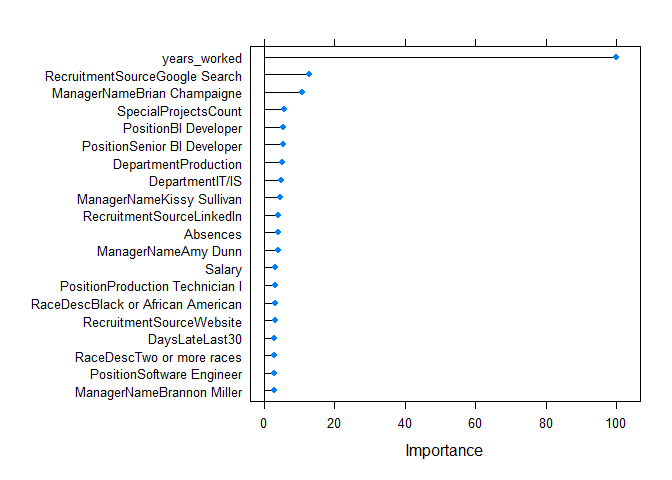
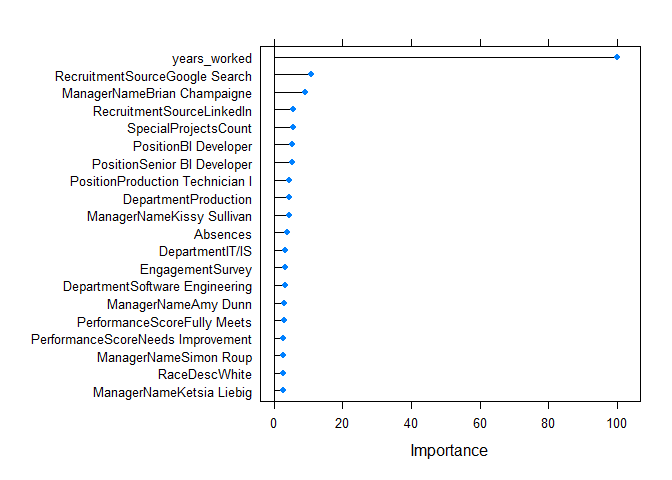
finalised

diff --git a/hr.md b/hr.md
@@ -1,7 +1,7 @@
 Human Resources Data Mining
 ================
 Kar Ng
-2022-05
+2022-07
 
 -   [1 SUMMARY](#1-summary)
 -   [2 R PACKAGES](#2-r-packages)
@@ -45,7 +45,7 @@ Kar Ng
             (MCA)](#833-multiple-correspondence-analysis-mca)
     -   [8.4 Are there areas of the company where pay is not
         equitable?](#84-are-there-areas-of-the-company-where-pay-is-not-equitable)
-        -   [8.4.1 Visual Exploration\*\*](#841-visual-exploration)
+        -   [8.4.1 Visual Exploration](#841-visual-exploration)
         -   [8.4.2 Statistical Analysis](#842-statistical-analysis)
         -   [8.4.3 Regression](#843-regression)
     -   [8.5 Can we predict who is going to terminate and who isn’t?
@@ -896,27 +896,27 @@ employee in the dataset.
 hr2$years_worked
 ```
 
-    ##   [1] 11.0  1.2  1.2 14.5  5.2 10.5  7.6  8.7 13.0  7.5  6.0  4.5  7.6 10.3  4.5
-    ##  [16]  6.5  5.9 11.2  1.2  9.0 10.2  8.8  8.0 11.2  3.2  2.0  7.3  0.9  1.2 13.7
-    ##  [31]  7.7  8.6  3.0 10.3 11.2 10.9  6.4  8.6  8.2  6.0  7.8  7.7  5.8  8.1  9.0
-    ##  [46] 10.1  4.4 10.7  9.8  1.6  1.1  6.0  9.0  5.2 11.9 13.5  7.5  7.2  6.0  7.6
-    ##  [61]  8.1  7.6 10.0 10.6  4.0  5.1 10.5  7.7  4.6  8.0  5.3  8.1 10.3  9.5 10.2
-    ##  [76]  7.5  8.5 11.5  7.8 12.2  6.2  7.6  8.2  8.0  6.5  4.0  2.1  8.0  8.3  4.5
-    ##  [91]  7.1  7.2 10.5  2.1  1.8  3.9 11.2 13.5 10.8 12.1  7.2 11.1  7.2  5.0  1.2
-    ## [106]  3.2  7.7  7.3  0.1  7.2  8.6 11.0  1.1  7.5  8.1 10.0  8.7  8.8  7.1  2.9
-    ## [121]  5.2  2.7 10.6  8.6  3.9  8.1  9.9  2.4  7.8  0.6  7.2  8.1  0.2 10.3  6.0
-    ## [136]  7.0  2.1  1.6  8.8  9.6  8.7 11.0  8.5  6.5  7.5  8.0  5.2  2.5  8.7  8.8
-    ## [151] 10.0  3.7  2.3  8.3 11.5 11.3  7.6  4.9  1.2 10.0  8.5  1.0  5.7  6.9  6.5
-    ## [166] 10.1 10.1  8.7  7.2  9.0 11.4  3.2  8.8  7.3  4.0  5.0  8.5  6.1  1.1  8.6
-    ## [181]  8.6 11.1  7.2  9.5  6.0  4.6  7.2  9.9  3.1 10.6 10.4  9.1 10.5  7.3  9.2
-    ## [196]  9.1  9.0  5.4  2.5  3.2  8.1  9.2  9.0  9.0  7.6  4.1  1.3  8.7  8.7  8.3
-    ## [211]  7.5  2.9  3.8  1.4  7.0  4.2  4.4  1.7  5.6 10.2  7.6  1.4 14.6 10.5  7.1
-    ## [226]  8.5  0.7  4.5  5.7  6.5  8.1  4.7 10.6  0.1  0.6  5.0  5.4  9.0  7.3  3.8
-    ## [241]  5.5  8.5  7.4  9.4  3.8  9.6  6.0  9.6 11.8  0.8  7.7  8.7  7.7  8.8  7.5
-    ## [256]  7.1  5.5  7.7  8.1  2.0  8.6 11.0  6.0 10.3  9.7  2.1 11.5  8.1  7.7  8.3
-    ## [271] 11.7 13.5  7.5 10.1  8.0  5.2  3.9  6.2  7.7  5.2  3.2  9.3 16.5  8.3  1.1
-    ## [286]  5.2  3.5  7.2 11.0  3.5 10.9 10.3  2.0  4.4  7.0  7.8  0.3  3.1  5.3  7.2
-    ## [301]  3.3  4.3  1.3  3.5  3.1  7.7  8.0  7.1 12.2  7.2  7.7
+    ##   [1] 11.0  1.2  1.2 14.5  5.2 10.5  7.7  8.8 13.0  7.5  6.0  4.5  7.7 10.4  4.5
+    ##  [16]  6.5  6.0 11.3  1.2  9.0 10.3  8.9  8.0 11.3  3.2  2.0  7.4  0.9  1.2 13.7
+    ##  [31]  7.8  8.7  3.0 10.3 11.3 10.9  6.4  8.7  8.3  6.0  7.9  7.8  5.8  8.2  9.0
+    ##  [46] 10.2  4.4 10.8  9.8  1.6  1.1  6.0  9.0  5.2 12.0 13.5  7.5  7.3  6.0  7.7
+    ##  [61]  8.2  7.7 10.0 10.7  4.0  5.1 10.5  7.8  4.6  8.0  5.4  8.2 10.4  9.5 10.3
+    ##  [76]  7.5  8.5 11.5  7.8 12.2  6.2  7.7  8.3  8.0  6.5  4.0  2.1  8.0  8.4  4.5
+    ##  [91]  7.2  7.3 10.5  2.1  1.8  3.9 11.2 13.5 10.8 12.2  7.3 11.1  7.3  5.0  1.2
+    ## [106]  3.2  7.8  7.4  0.1  7.3  8.7 11.0  1.1  7.5  8.2 10.0  8.8  8.9  7.1  2.9
+    ## [121]  5.2  2.7 10.6  8.7  3.9  8.2  9.9  2.4  7.9  0.6  7.3  8.2  0.2 10.4  6.1
+    ## [136]  7.1  2.1  1.6  8.9  9.7  8.8 11.0  8.5  6.5  7.5  8.0  5.2  2.5  8.8  8.9
+    ## [151] 10.0  3.7  2.3  8.4 11.5 11.3  7.7  4.9  1.2 10.0  8.5  1.0  5.8  6.9  6.5
+    ## [166] 10.2 10.2  8.8  7.2  9.0 11.5  3.2  8.9  7.4  4.0  5.0  8.5  6.2  1.1  8.7
+    ## [181]  8.7 11.1  7.3  9.5  6.0  4.6  7.3  9.9  3.1 10.7 10.4  9.2 10.5  7.4  9.3
+    ## [196]  9.2  9.0  5.4  2.5  3.2  8.2  9.3  9.0  9.0  7.7  4.1  1.3  8.8  8.8  8.4
+    ## [211]  7.5  2.9  3.8  1.4  7.0  4.2  4.4  1.7  5.6 10.3  7.7  1.4 14.7 10.5  7.1
+    ## [226]  8.5  0.7  4.5  5.8  6.5  8.2  4.7 10.6  0.1  0.6  5.0  5.4  9.0  7.4  3.8
+    ## [241]  5.5  8.5  7.4  9.5  3.8  9.7  6.0  9.6 11.9  0.8  7.8  8.8  7.8  8.9  7.5
+    ## [256]  7.2  5.5  7.8  8.1  2.0  8.7 11.1  6.0 10.4  9.8  2.1 11.5  8.2  7.8  8.4
+    ## [271] 11.8 13.5  7.5 10.2  8.0  5.2  3.9  6.2  7.8  5.2  3.2  9.4 16.5  8.4  1.1
+    ## [286]  5.2  3.5  7.3 11.0  3.5 10.9 10.3  2.0  4.4  7.0  7.9  0.3  3.1  5.4  7.3
+    ## [301]  3.3  4.3  1.3  3.5  3.1  7.8  8.0  7.1 12.2  7.3  7.8
 
 The distribution:
 
@@ -1018,7 +1018,7 @@ str(hr2 %>%
     ##  $ Salary              : int  62506 104437 64955 64991 50825 57568 95660 59365 47837 50178 ...
     ##  $ Termd               : int  0 1 1 0 1 0 0 0 0 0 ...
     ##  $ Age                 : num  40 48 35 35 34 46 44 40 53 35 ...
-    ##  $ years_worked        : num  11 1.2 1.2 14.5 5.2 10.5 7.6 8.7 13 7.5 ...
+    ##  $ years_worked        : num  11 1.2 1.2 14.5 5.2 10.5 7.7 8.8 13 7.5 ...
     ##  $ EngagementSurvey    : num  4.6 4.96 3.02 4.84 5 5 3.04 5 4.46 5 ...
     ##  $ EmpSatisfaction     : int  5 3 3 5 4 5 3 4 3 5 ...
     ##  $ SpecialProjectsCount: int  0 6 0 0 0 0 4 0 0 6 ...
@@ -1666,10 +1666,10 @@ years_worked
 1
 </td>
 <td style="text-align:right;">
-7.03
+7.07
 </td>
 <td style="text-align:right;">
-3.21
+3.23
 </td>
 <td style="text-align:right;">
 0.10
@@ -1678,7 +1678,7 @@ years_worked
 4.80
 </td>
 <td style="text-align:right;">
-7.60
+7.70
 </td>
 <td style="text-align:right;">
 9.0
@@ -2202,7 +2202,7 @@ summary(gower.dis)
 
     ## 48205 dissimilarities, summarized :
     ##    Min. 1st Qu.  Median    Mean 3rd Qu.    Max. 
-    ##  0.0402  0.3629  0.4471  0.4475  0.5310  0.8592 
+    ## 0.04051 0.36285 0.44717 0.44752 0.53110 0.85923 
     ## Metric :  mixed ;  Types = I, N, N, N, I, N, N, N, N, N, I, N, N, N, N, N, N, I, N, I, I, I 
     ## Number of objects : 311
 
@@ -2223,7 +2223,7 @@ hr2[which(gower_mat == min(gower_mat[gower_mat != min(gower_mat)]),   # min for 
     ## Hudson  Jane       55425     0 Production Technician I    MA  37   F
     ##                   MaritalDesc CitizenDesc HispanicLatino RaceDesc years_worked
     ## Mahoney  Lauren        Single  US Citizen             No    White          8.5
-    ## Hudson  Jane           Single  US Citizen             No    White         10.3
+    ## Hudson  Jane           Single  US Citizen             No    White         10.4
     ##                          TermReason EmploymentStatus Department   ManagerName
     ## Mahoney  Lauren   N/A-StillEmployed           Active Production Ketsia Liebig
     ## Hudson  Jane      N/A-StillEmployed           Active Production Ketsia Liebig
@@ -2249,7 +2249,7 @@ hr2[which(gower_mat == max(gower_mat[gower_mat != max(gower_mat)]),   # max for 
     ## Dietrich  Jenna    US Citizen            Yes                     White
     ##                   years_worked        TermReason       EmploymentStatus
     ## Quinn  Sean                4.5     career change Voluntarily Terminated
-    ## Dietrich  Jenna           10.3 N/A-StillEmployed                 Active
+    ## Dietrich  Jenna           10.4 N/A-StillEmployed                 Active
     ##                             Department ManagerName  RecruitmentSource
     ## Quinn  Sean       Software Engineering  Janet King Diversity Job Fair
     ## Dietrich  Jenna                  Sales  John Smith            Website
@@ -2304,8 +2304,8 @@ for (i in 2:10) {
 sil_df
 ```
 
-    ##  [1]         NA 0.25943063 0.10368099 0.10533245 0.10610706 0.08910545
-    ##  [7] 0.08380167 0.07505053 0.07848610 0.07500276
+    ##  [1]         NA 0.25968518 0.10448514 0.10603126 0.10652674 0.08910004
+    ##  [7] 0.08381298 0.07505734 0.07849953 0.07501388
 
 Plot the result:
 
@@ -2382,8 +2382,8 @@ summary(cluster1_stat[, -1])
     ##  American Indian or Alaska Native:  3   Min.   : 2.000  
     ##  Asian                           : 20   1st Qu.: 7.500  
     ##  Black or African American       : 53   Median : 8.500  
-    ##  Hispanic                        :  1   Mean   : 8.696  
-    ##  Two or more races               : 10   3rd Qu.:10.125  
+    ##  Hispanic                        :  1   Mean   : 8.752  
+    ##  Two or more races               : 10   3rd Qu.:10.225  
     ##  White                           :125   Max.   :16.500  
     ##                                                         
     ##                          TermReason                EmploymentStatus
@@ -3091,7 +3091,7 @@ received different amount of pay compared to other majority.
 
 Two parts in this analysis: (1) Visual exploration, (2) Regression
 
-#### 8.4.1 Visual Exploration\*\*
+#### 8.4.1 Visual Exploration
 
 Following are selected variables that are relevant to achieve the goal
 of this section.
@@ -3346,50 +3346,50 @@ summary(model_lm)
     ## 
     ## Residuals:
     ##    Min     1Q Median     3Q    Max 
-    ## -13833  -4166      0   4389  14952 
+    ## -13838  -4165      0   4388  14951 
     ## 
     ## Coefficients: (5 not defined because of singularities)
     ##                                       Estimate Std. Error t value Pr(>|t|)    
-    ## (Intercept)                           64053.95    5571.58  11.497  < 2e-16 ***
-    ## PositionAdministrative Assistant     -12058.29    5185.12  -2.326  0.02078 *  
-    ## PositionArea Sales Manager             1328.25    3851.75   0.345  0.73048    
-    ## PositionBI Developer                  31543.58    4794.88   6.579 2.44e-10 ***
-    ## PositionBI Director                   46931.37    7266.85   6.458 4.88e-10 ***
-    ## PositionCIO                          157423.34    7253.60  21.703  < 2e-16 ***
-    ## PositionData Analyst                  25986.96    4262.79   6.096 3.72e-09 ***
-    ## PositionData Architect                85182.18    7257.23  11.738  < 2e-16 ***
-    ## PositionDatabase Administrator        44324.18    4667.87   9.496  < 2e-16 ***
-    ## PositionDirector of Operations       106993.67    7220.74  14.818  < 2e-16 ***
-    ## PositionDirector of Sales            115848.34    7298.79  15.872  < 2e-16 ***
-    ## PositionEnterprise Architect          37821.72    7320.26   5.167 4.63e-07 ***
-    ## PositionIT Director                  114076.56    7211.83  15.818  < 2e-16 ***
-    ## PositionIT Manager - DB               80404.06    5757.56  13.965  < 2e-16 ***
-    ## PositionIT Manager - Infra            94169.36    7334.67  12.839  < 2e-16 ***
-    ## PositionIT Manager - Support          74151.97    7237.46  10.246  < 2e-16 ***
-    ## PositionIT Support                      629.29    4280.51   0.147  0.88323    
-    ## PositionNetwork Engineer              -1968.05    4620.22  -0.426  0.67047    
-    ## PositionPresident & CEO              186357.94    7535.34  24.731  < 2e-16 ***
-    ## PositionPrincipal Data Architect      56583.84    7440.35   7.605 4.70e-13 ***
-    ## PositionProduction Manager            10420.65    4071.93   2.559  0.01104 *  
-    ## PositionProduction Technician I       -8332.45    3700.61  -2.252  0.02515 *  
-    ## PositionProduction Technician II        833.15    3774.39   0.221  0.82546    
-    ## PositionSales Manager                  5674.50    5125.57   1.107  0.26923    
-    ## PositionSenior BI Developer           19395.66    5307.56   3.654  0.00031 ***
-    ## PositionShared Services Manager       29728.00    7235.22   4.109 5.27e-05 ***
-    ## PositionSoftware Engineer             32692.58    4130.19   7.916 6.34e-14 ***
-    ## PositionSoftware Engineering Manager  13988.56    7284.39   1.920  0.05586 .  
-    ## PositionSr. Accountant                39345.95    5714.74   6.885 4.02e-11 ***
-    ## PositionSr. DBA                       37866.52    5747.98   6.588 2.31e-10 ***
-    ## PositionSr. Network Engineer          28548.78    4660.96   6.125 3.18e-09 ***
-    ## Age                                      49.85      43.95   1.134  0.25770    
-    ## SexM                                   -122.50     757.39  -0.162  0.87164    
-    ## HispanicLatinoYes                      -886.77    1380.63  -0.642  0.52123    
-    ## RaceDescAsian                          -106.11    3888.88  -0.027  0.97825    
-    ## RaceDescBlack or African American      -848.65    3755.73  -0.226  0.82140    
-    ## RaceDescHispanic                       9259.65    7587.39   1.220  0.22337    
-    ## RaceDescTwo or more races             -2842.67    4102.39  -0.693  0.48895    
-    ## RaceDescWhite                         -1801.45    3706.47  -0.486  0.62734    
-    ## years_worked                           -116.33     122.93  -0.946  0.34483    
+    ## (Intercept)                           64065.86    5570.53  11.501  < 2e-16 ***
+    ## PositionAdministrative Assistant     -12061.09    5184.11  -2.327 0.020727 *  
+    ## PositionArea Sales Manager             1329.48    3851.52   0.345 0.730224    
+    ## PositionBI Developer                  31544.24    4794.04   6.580 2.42e-10 ***
+    ## PositionBI Director                   46926.72    7266.67   6.458 4.89e-10 ***
+    ## PositionCIO                          157419.18    7253.10  21.704  < 2e-16 ***
+    ## PositionData Analyst                  25989.02    4261.88   6.098 3.69e-09 ***
+    ## PositionData Architect                85176.68    7257.07  11.737  < 2e-16 ***
+    ## PositionDatabase Administrator        44320.04    4667.24   9.496  < 2e-16 ***
+    ## PositionDirector of Operations       106991.41    7220.11  14.819  < 2e-16 ***
+    ## PositionDirector of Sales            115854.97    7298.37  15.874  < 2e-16 ***
+    ## PositionEnterprise Architect          37816.59    7319.66   5.166 4.63e-07 ***
+    ## PositionIT Director                  114073.71    7211.49  15.818  < 2e-16 ***
+    ## PositionIT Manager - DB               80405.77    5757.08  13.966  < 2e-16 ***
+    ## PositionIT Manager - Infra            94165.80    7334.39  12.839  < 2e-16 ***
+    ## PositionIT Manager - Support          74148.58    7237.28  10.245  < 2e-16 ***
+    ## PositionIT Support                      630.45    4280.35   0.147 0.883013    
+    ## PositionNetwork Engineer              -1963.97    4619.25  -0.425 0.671049    
+    ## PositionPresident & CEO              186353.41    7534.99  24.732  < 2e-16 ***
+    ## PositionPrincipal Data Architect      56577.05    7440.18   7.604 4.72e-13 ***
+    ## PositionProduction Manager            10418.46    4071.72   2.559 0.011049 *  
+    ## PositionProduction Technician I       -8333.44    3700.36  -2.252 0.025119 *  
+    ## PositionProduction Technician II        832.27    3773.77   0.221 0.825615    
+    ## PositionSales Manager                  5672.83    5125.17   1.107 0.269337    
+    ## PositionSenior BI Developer           19398.15    5306.62   3.655 0.000308 ***
+    ## PositionShared Services Manager       29723.26    7235.06   4.108 5.29e-05 ***
+    ## PositionSoftware Engineer             32692.12    4129.78   7.916 6.31e-14 ***
+    ## PositionSoftware Engineering Manager  13985.53    7284.02   1.920 0.055904 .  
+    ## PositionSr. Accountant                39347.21    5714.57   6.885 4.01e-11 ***
+    ## PositionSr. DBA                       37860.64    5747.66   6.587 2.32e-10 ***
+    ## PositionSr. Network Engineer          28553.38    4660.34   6.127 3.14e-09 ***
+    ## Age                                      49.83      43.95   1.134 0.257911    
+    ## SexM                                   -123.69     757.40  -0.163 0.870398    
+    ## HispanicLatinoYes                      -886.44    1380.57  -0.642 0.521364    
+    ## RaceDescAsian                          -109.30    3888.82  -0.028 0.977599    
+    ## RaceDescBlack or African American      -852.23    3755.70  -0.227 0.820660    
+    ## RaceDescHispanic                       9254.67    7587.07   1.220 0.223603    
+    ## RaceDescTwo or more races             -2846.72    4102.36  -0.694 0.488326    
+    ## RaceDescWhite                         -1804.60    3706.40  -0.487 0.626733    
+    ## years_worked                           -116.62     122.08  -0.955 0.340298    
     ## DepartmentExecutive Office                  NA         NA      NA       NA    
     ## DepartmentIT/IS                             NA         NA      NA       NA    
     ## DepartmentProduction                        NA         NA      NA       NA    
@@ -4156,8 +4156,8 @@ will be automatically picked in the algorithm when making prediction
 model_svmPoly$bestTune
 ```
 
-    ##    degree scale C
-    ## 24      2  0.01 2
+    ##    degree scale    C
+    ## 13      1     1 0.25
 
 Making predictions on the test set, and following are the results:
 
@@ -4168,7 +4168,7 @@ table(pred_svmPoly)
 
     ## pred_svmPoly
     ##  0  1 
-    ## 66 27
+    ## 63 30
 
 The model predicted 63 employees from the test set are current employees
 (0) and 30 have left (1). I have actually the actual data that whether
@@ -4183,26 +4183,26 @@ confusionMatrix(pred_svmPoly, test.set$Termd, positive = "1")
     ## 
     ##           Reference
     ## Prediction  0  1
-    ##          0 59  7
-    ##          1  3 24
+    ##          0 58  5
+    ##          1  4 26
     ##                                           
-    ##                Accuracy : 0.8925          
-    ##                  95% CI : (0.8111, 0.9472)
+    ##                Accuracy : 0.9032          
+    ##                  95% CI : (0.8242, 0.9548)
     ##     No Information Rate : 0.6667          
-    ##     P-Value [Acc > NIR] : 4.309e-07       
+    ##     P-Value [Acc > NIR] : 9.935e-08       
     ##                                           
-    ##                   Kappa : 0.75            
+    ##                   Kappa : 0.7805          
     ##                                           
-    ##  Mcnemar's Test P-Value : 0.3428          
+    ##  Mcnemar's Test P-Value : 1               
     ##                                           
-    ##             Sensitivity : 0.7742          
-    ##             Specificity : 0.9516          
-    ##          Pos Pred Value : 0.8889          
-    ##          Neg Pred Value : 0.8939          
+    ##             Sensitivity : 0.8387          
+    ##             Specificity : 0.9355          
+    ##          Pos Pred Value : 0.8667          
+    ##          Neg Pred Value : 0.9206          
     ##              Prevalence : 0.3333          
-    ##          Detection Rate : 0.2581          
-    ##    Detection Prevalence : 0.2903          
-    ##       Balanced Accuracy : 0.8629          
+    ##          Detection Rate : 0.2796          
+    ##    Detection Prevalence : 0.3226          
+    ##       Balanced Accuracy : 0.8871          
     ##                                           
     ##        'Positive' Class : 1               
     ## 
@@ -4275,11 +4275,11 @@ model_rf$finalModel
     ##                      Number of trees: 500
     ## No. of variables tried at each split: 45
     ## 
-    ##         OOB estimate of  error rate: 4.13%
+    ##         OOB estimate of  error rate: 3.21%
     ## Confusion matrix:
     ##     0  1 class.error
     ## 0 143  2  0.01379310
-    ## 1   7 66  0.09589041
+    ## 1   5 68  0.06849315
 
 The random forest is able to produce us an “Important Plot” that telling
 which variables are very important when making the prediction.
@@ -4382,28 +4382,28 @@ confusionMatrix(rf.df$outcome_0.3prob,
     ## 
     ##           Reference
     ## Prediction  0  1
-    ##          0 60  2
-    ##          1  2 29
-    ##                                           
-    ##                Accuracy : 0.957           
-    ##                  95% CI : (0.8935, 0.9882)
-    ##     No Information Rate : 0.6667          
-    ##     P-Value [Acc > NIR] : 8.398e-12       
-    ##                                           
-    ##                   Kappa : 0.9032          
-    ##                                           
-    ##  Mcnemar's Test P-Value : 1               
-    ##                                           
-    ##             Sensitivity : 0.9355          
-    ##             Specificity : 0.9677          
-    ##          Pos Pred Value : 0.9355          
-    ##          Neg Pred Value : 0.9677          
-    ##              Prevalence : 0.3333          
-    ##          Detection Rate : 0.3118          
-    ##    Detection Prevalence : 0.3333          
-    ##       Balanced Accuracy : 0.9516          
-    ##                                           
-    ##        'Positive' Class : 1               
+    ##          0 59  2
+    ##          1  3 29
+    ##                                          
+    ##                Accuracy : 0.9462         
+    ##                  95% CI : (0.879, 0.9823)
+    ##     No Information Rate : 0.6667         
+    ##     P-Value [Acc > NIR] : 7.665e-11      
+    ##                                          
+    ##                   Kappa : 0.88           
+    ##                                          
+    ##  Mcnemar's Test P-Value : 1              
+    ##                                          
+    ##             Sensitivity : 0.9355         
+    ##             Specificity : 0.9516         
+    ##          Pos Pred Value : 0.9063         
+    ##          Neg Pred Value : 0.9672         
+    ##              Prevalence : 0.3333         
+    ##          Detection Rate : 0.3118         
+    ##    Detection Prevalence : 0.3441         
+    ##       Balanced Accuracy : 0.9435         
+    ##                                          
+    ##        'Positive' Class : 1              
     ## 
 
 In a conclusion for this section, Random Forest with 0.286 probability
